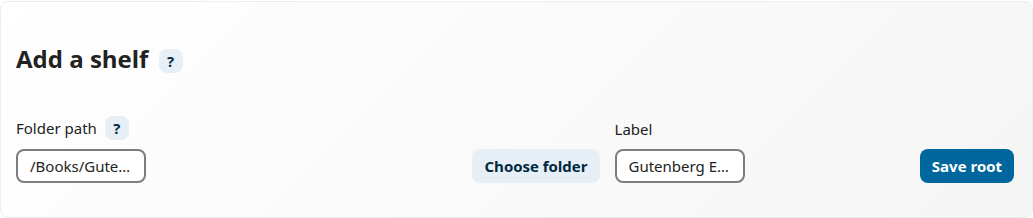
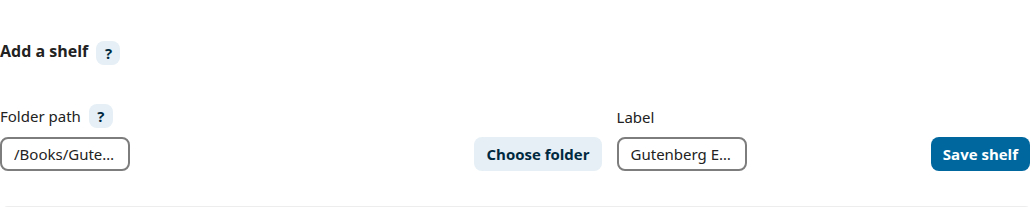
Refresh public README and screenshots for alpha.34

diff --git a/README.md b/README.md
@@ -1,59 +1,67 @@
 # Library
 
-Signed **0.3.0-alpha.34** is deployed on developer NC34. All eight final UX findings are addressed: readable errors, stable profile searches and Back navigation, consistent filter keyboards, clear mobile headers, shared view controls, terminology, language cleanup and page framing. Required CI passed, including **77 browser journeys**. Integrity is clean and the catalogue remains **107,717 books**. No database migration. See the [alpha.34 verification and deployment record](docs/compatibility-evidence/2026-10-20-nc34-final-ux-alpha34/README.md) and human acceptance **H03-26**.
+Browse, organise and improve the books, comics, magazines and papers you already keep in Nextcloud Files.
 
-Alpha.29 fixes selective content-search performance and surname searches in the **Author** filter. See the [search verification record](docs/compatibility-evidence/2026-10-20-nc34-search-alpha29/README.md). The alpha.29 search verification is historical and remains covered by alpha.30 regression checks; that search change required no migration.
+Library is an open-source Nextcloud app ([AGPL-3.0-or-later](LICENSE)) with a searchable cover gallery, author/series/genre browsing, private reading lists and tools for reviewing messy metadata. Nextcloud Files remains the canonical storage: a file-ID-based index connects your existing files to the catalogue.
 
-Library is an open-source Nextcloud app for people who keep books, comics, papers and sidecar metadata in Nextcloud Files.
+![Library catalogue with English Project Gutenberg books](docs/images/appstore-catalogue.png)
 
-Nextcloud Files remains the canonical storage. Library indexes those files with a file-ID-based index and adds a catalogue on top: covers, search, filters, shelves, saved collections, detail editing, review queues and handoff to the normal Nextcloud file viewers.
-
-![Library compact catalogue showing cover cards, filters and saved collections](docs/images/catalogue-compact.png)
-
-License: AGPL-3.0-or-later. See [LICENSE](LICENSE).
-
-Current candidate: `0.3.0-alpha.34`. Destination-author selection searches automatically after three letters and offers creation when no author matches. All book links and old bookmarks open one editor, with compact Authors → Series → Genres rows and a single Save/Discard workflow. Metadata status, imported suggestions and file information are collapsed at the bottom. The [alpha.34 final UX record](docs/compatibility-evidence/2026-10-20-nc34-final-ux-alpha34/README.md) tracks candidate checks and deployment status. Supported Nextcloud versions: **33–35**. The exact signed NC33–35 matrix and owner acceptance remain release gates. See [release status](RELEASE.md).
-
-The current development build adds per-user author and series identities, author profiles, reviewed moves and merges, changed-import review and conditional Undo. Earlier 0.2 work includes private reading lists, path/filename metadata extraction, duplicate review, scheduled scans and bounded cover thumbnails.
-
-Verification: alpha.9 has focused source-build checks on Nextcloud 33.0.9 / 34.0.4 / 35.0.0 and a populated developer NC34 upgrade. The last signed, exact-package matrix belongs to the preserved `0.2.0-beta.3` baseline; an exact 0.3 release archive still needs that matrix. See the [release checklist](docs/app-store-readiness.md), [alpha.9 evidence](docs/compatibility-evidence/2026-10-14-series-assignments-alpha9/README.md) and [active roadmap](docs/roadmap.md).
+Current candidate: `0.3.0-alpha.34`. **Pre-release:** 0.3 is the planned first App Store release. The declared compatibility range is **Nextcloud 33–35**; final exact-package compatibility checks and human acceptance remain release gates. Earlier signed candidates have their own verification records. See [release status](RELEASE.md), the [current verification record](docs/compatibility-evidence/2026-10-20-nc34-final-ux-alpha34/README.md) and the [release checklist](docs/app-store-readiness.md).
 
 ## What it does
 
-- scan folders already visible in Nextcloud Files;
-- browse a cover-first catalogue and cover gallery in compact, gallery, shelf or list view;
-- search and filter titles, creators, series, descriptions, identifiers, file names and folders;
-- filter by type, format, year, creator, publisher, subject, classification, tag, scan state, workflow state and review flags;
-- use typeahead for large lists such as creators, publishers, series, subjects and folders;
+- scan folders already visible in Nextcloud Files; browse covers or a list with shelves and saved filter collections;
+- search and filter titles, linked author names, series, descriptions, identifiers, file names and folders;
+- filter by type, format, year, author, publisher, subject, classification, tag, scan state, workflow state and review flags;
+- use typeahead for authors, publishers, series, genres, languages, subjects and other catalogue facets;
 - maintain private reading lists with ordered books and notes;
-- browse and edit author profiles and series identities; review selected-book moves, whole-identity merges and changed imported relationships;
+- browse authors, series and genres with sorting and linked book previews; edit author profiles and review reassignment, merges and imported relationship changes;
 - infer metadata from paths and filenames with preview, per-book review, Apply and Undo;
-- schedule scans and review optional potential-duplicate suggestions;
-- save the current filter setup as a collection and reopen it from the navigation;
-- open the file in the normal Nextcloud viewer, show it in Files or Download it;
-- edit catalogue metadata, workflow status, stars, descriptions and file comments;
+- schedule scans, review optional potential-duplicate suggestions and reopen saved filter collections;
+- open books in a new tab through the installed Nextcloud viewer, show them in Files or use **Download**;
+- edit book details with a single Save/Discard workflow, preserve corrected fields during scans, and manage favorites, ratings, reading status and file comments;
 - review weak metadata, scanner conflicts, missing files and metadata extraction errors;
-- export corrected metadata and preview imports before applying them.
+- export corrected metadata and preview imports before applying them;
+- delete a book file after confirmation, retaining shared OPF metadata and other companion files and removing its immediate parent only when safely empty and unprotected.
 
 The app has safe user-facing diagnostics for scan and metadata problems. Server logs keep the technical detail.
+
+## A look inside
+
+**Book details:** title, metadata, cover actions and linked authors in one editor. Changes to book metadata remain a draft until saved.
+
+![Current Book details editor for a Gutenberg publication](docs/images/appstore-details.png)
+
+**Authors:** browse names and their books, sort the directory and open a profile or book directly.
+
+![Author directory with linked Gutenberg book previews](docs/images/appstore-authors.png)
+
+**Extract metadata:** preview suggestions from file and folder names before applying selected fields.
+
+![Filename metadata extraction with a selected-record preview](docs/images/appstore-inference.png)
+
+Screenshots show the actual alpha.34 interface on an isolated Nextcloud 34 instance, using the [English Gutenberg examples](docs/gutenberg-example-books.md) and a synthetic filename-extraction example. [Capture details and reproduction](docs/images/first-library/README.md).
+
+## Your first library
+
+1. Upload a few EPUB, PDF or CBZ files to a folder in Nextcloud Files.
+2. Open **Library → Settings → Folders and scanning**, choose **Add a shelf**, select the folder and click **Save shelf**.
+3. Click **Scan this shelf** and wait for the background scan to finish.
+4. Open **All publications**. Click a cover/title for Book details or **Quick view** for the sidebar; **Open** hands the file to your installed viewer.
+
+Follow [Your first library](docs/first-library.md) for a screenshot walkthrough. EPUB/comic reading depends on the viewer apps installed on your server; downloading the source remains available.
 
 ## Current scope
 
 Library keeps source files in place. Scans and edits write to Library-owned tables and metadata records. Metadata import has a preview step before anything is applied.
 
-Outside the current 0.3 scope:
+The explicit **Delete book** action removes the selected source file through Nextcloud; normal scanning and metadata editing do not rewrite it. Corrected-metadata export is a **partial export**, not a backup of lists, author profiles or all relationships. Use the [backup and recovery guide](docs/recovery.md) to preserve the complete Library state.
 
-- a built-in EPUB, PDF or comic reader;
-- reading-position sync or annotations;
-- OCR or full-text document search;
-- internet metadata lookup;
-- OPDS, Kobo or Kindle sync;
-- AI classification;
-- shared or admin-managed library roots.
+Outside 0.3: a built-in reader, reading-position sync or annotations, OCR/full-text document search, internet metadata lookup, OPDS/device sync, AI classification and shared/admin-managed roots.
 
 ## Install
 
-Install a packaged archive as a Nextcloud administrator:
+As a Nextcloud administrator:
 
 ```bash
 tar -xzf library-<version>.tar.gz -C /var/www/html/custom_apps
@@ -61,9 +69,7 @@ chown -R www-data:www-data /var/www/html/custom_apps/library
 sudo -u www-data php /var/www/html/occ app:enable library
 ```
 
-The archive must contain one top-level `library/` directory. Paths and the web-server user vary by installation. Container setups can run the same commands through `docker exec`.
-
-After enabling the app, open **Library settings**, add a folder that already exists in Nextcloud Files, then run **Scan this root**.
+The archive must contain one top-level `library/` directory. Adjust paths and the web-server user for your installation; containers can use `docker exec`. Nextcloud background jobs must run for queued scans; Cron is recommended for scheduled scans.
 
 ## Try it
 
@@ -76,16 +82,13 @@ scripts/package-release.sh
 
 Install `dist/library-<version>.tar.gz` with the archive commands above. Verify a packaged candidate with its adjacent `.sha256` artifact; detailed release evidence stays in the excluded `RELEASE.md`.
 
-Useful checks:
+Checks: `npm run check` and `npm run smoke:release-package`. For GUI workflows, install the pinned browsers with `npx playwright install chromium firefox`, then run `npm run test:gui` against a configured disposable instance. [Browser setup and coverage](docs/playwright-journeys.md).
 
-```bash
-npm run check
-npm run smoke:release-package
-```
+`bin/nextcloud-background-worker.sh` runs the general Nextcloud background worker for a bounded development pass.
 
-`bin/nextcloud-background-worker.sh` runs the general Nextcloud background worker for a bounded development pass when scan jobs need queue processing.
+## What's next
 
-For GUI workflows, install the pinned browsers once with `npx playwright install chromium firefox`, then run `npm run test:gui`. Set `PW_BASE_URL`, `PW_USER`, `PW_PASSWORD` and fixture variables when using a disposable instance.
+The [Active roadmap](docs/roadmap.md) keeps 0.3 focused on release readiness. Planned later themes are **0.4 Enrich and discover**, **0.5 Read and remember**, and **0.6 Explore your knowledge**, including optional metadata providers, deeper Nextcloud/reader integration and grounded content discovery. These are future plans, not features of this candidate.
 
 ## More documentation
 

diff --git a/docs/images/first-library/README.md b/docs/images/first-library/README.md
@@ -1,28 +1,53 @@
-# First library screenshots
+# Public screenshots — alpha.34
 
-Captured on 2026-10-05 using the signed Library 0.2.0-beta.1 archive on an isolated Nextcloud 34.0.4 instance, Chromium, English UI, light theme and a 1440 × 1000 viewport. Settings screenshots crop the relevant section; catalogue and details screenshots show the viewport. No DOM styling or image retouching was applied.
+Captured on 2026-10-20 using the existing signed Library **0.3.0-alpha.34** archive on an isolated **Nextcloud 34.0.4** instance, Chromium, English UI, light theme and a **1440 × 1000** viewport. Settings images crop the relevant section; browsing images show the viewport. No image retouching was applied. The extraction capture uses a scroll offset to keep the preview below the Nextcloud header.
 
-The source is the existing 40-book English Gutenberg EPUB fixture, copied into `/Books/Gutenberg English` for the disposable account. Book IDs and metadata titles are listed in [Gutenberg example books](../../gutenberg-example-books.md). The recorded first scan added all 40 books with zero metadata errors. The daily schedule is demonstration data in this disposable instance.
+The source is the 40-book English Gutenberg EPUB fixture, copied into `/Books/Gutenberg English` for a disposable account. Book IDs and metadata titles are listed in [Gutenberg example books](../../gutenberg-example-books.md). The first scan added all 40 books with zero metadata errors. The daily schedule is demonstration data. The extraction screenshot additionally uses a synthetic EPUB named `Pride and Prejudice - Jane Austen (1813).epub`; it is a filename tutorial, not a complete copy of that book. The final disposable catalogue therefore contains 41 records.
+
+## Image inventory
+
+| Image | Screen |
+|---|---|
+| [01-add-folder.png](01-add-folder.png) | Add a shelf with its folder and label filled |
+| [02-saved-folder.png](02-saved-folder.png) | Saved shelf before its first scan |
+| [03-scan-complete.png](03-scan-complete.png) | Completed scan: 40 indexed, zero errors |
+| [04-browse.png](04-browse.png) | All publications in Covers view |
+| [05-book-details.png](05-book-details.png) | Quick view sidebar |
+| [06-automatic-scans.png](06-automatic-scans.png) | Daily scan schedule |
+| [appstore-catalogue.png](../appstore-catalogue.png) | Catalogue overview |
+| [appstore-details.png](../appstore-details.png) | Full Book details editor |
+| [appstore-authors.png](../appstore-authors.png) | Author directory and linked book previews |
+| [appstore-inference.png](../appstore-inference.png) | Filename extraction and selected-record preview |
+
+All ten images were visually reviewed. Missing-cover placeholders reflect the fixture. The settings captures also expose narrow Add a shelf fields and an overlapping long Changes found label; these are recorded in the [maintenance audit](../../testing-maintenance-audit-2026-10-20.md#readme-and-screenshot-follow-up) for human follow-up.
 
 ## Recreate the screenshots
 
-From the repository root, provide the existing signed archive and the Gutenberg fixture. Start without `LIBRARY_BOOK_FIXTURE_ARCHIVE`: the normal helper would otherwise pre-index books, skipping the first-use journey.
+From the repository root, provide the signed archive and a local copy of the Gutenberg fixture. Start without `LIBRARY_BOOK_FIXTURE_ARCHIVE`: the helper would otherwise pre-index books, skipping the first-use journey. The example fixture path below is local and is not a bundled download.
 
 ```bash
 export NC_VERSION=34.0.4
-export LIBRARY_LISTS_PREFIX=library-first-steps
-export LIBRARY_LISTS_WORK_DIR=/tmp/library-first-steps
-export LIBRARY_TEST_ARCHIVE="$PWD/dist/library-0.2.0-beta.1.tar.gz"
+export LIBRARY_LISTS_PREFIX=library-public-capture
+export LIBRARY_LISTS_WORK_DIR=/tmp/library-public-capture
+export LIBRARY_TEST_ARCHIVE="$PWD/dist/library-0.3.0-alpha.34.tar.gz"
+GUTENBERG_ARCHIVE=/tmp/library-beta2/gutenberg-en-40.tar.gz
 unset LIBRARY_BOOK_FIXTURE_ARCHIVE LIBRARY_BETA_ARCHIVE
 bash scripts/dev-lists-instance.sh start
 source "$LIBRARY_LISTS_WORK_DIR/$NC_VERSION.env"
-docker cp /tmp/library-beta-matrix/gutenberg-en-40.tar.gz "$LIBRARY_LISTS_CONTAINER:/tmp/books.tar.gz"
+docker cp "$GUTENBERG_ARCHIVE" "$LIBRARY_LISTS_CONTAINER:/tmp/books.tar.gz"
 docker exec "$LIBRARY_LISTS_CONTAINER" sh -c 'mkdir -p "/var/www/html/data/library-smoke/files/Books/Gutenberg English" && tar -xzf /tmp/books.tar.gz -C "/var/www/html/data/library-smoke/files/Books/Gutenberg English" && chown -R www-data:www-data /var/www/html/data/library-smoke/files/Books'
 docker exec -u www-data "$LIBRARY_LISTS_CONTAINER" php occ files:scan --path=library-smoke/files/Books
 node scripts/capture-first-library.mjs
+
+# Complete the newly indexed fixture's author and series links before capture.
+for job_class in AuthorBackfillJob SeriesBackfillJob; do
+    job_id="$(docker exec -u www-data "$LIBRARY_LISTS_CONTAINER" php occ background-job:list --output=json | python3 -c 'import json,sys; jobs=[j for j in json.load(sys.stdin) if j["class"].endswith(sys.argv[1])]; assert len(jobs)==1, jobs; print(jobs[0]["id"])' "$job_class")"
+    docker exec -u www-data "$LIBRARY_LISTS_CONTAINER" php occ background-job:execute "$job_id" --force-execute
+done
+SCREENSHOT_DIR=docs/images node scripts/capture-app-store.mjs
 bash scripts/dev-lists-instance.sh stop
 ```
 
-The capture script requires the disposable-instance ownership label and no existing Library roots. It saves the first root through the UI, queues its scan, invokes the disposable worker, captures the completed result, saves a daily schedule and captures the catalogue/sidebar. It does not download the books or run the compatibility test suite. If capture fails, stop the disposable instance after inspecting the error; use a fresh instance for another first-scan capture.
+Both scripts require the disposable-instance ownership label. The first script requires no existing Library roots, saves the shelf through the UI, queues its scan, invokes the worker, captures the completed result and saves a daily schedule. The second starts with the 40-book catalogue and creates its synthetic extraction fixture after capturing browsing screens. Use a fresh instance when repeating the complete sequence; these are first-use capture tools, not idempotent maintenance commands. If capture fails, stop the disposable instance after inspecting the error.
 
-All six images were visually reviewed. The isolated instance was removed after capture. Existing release archives and developer-instance data were not changed.
[1 lines of base64/hex data omitted]

diff --git a/docs/testing-maintenance-audit-2026-10-20.md b/docs/testing-maintenance-audit-2026-10-20.md
@@ -8,7 +8,7 @@ Scope: the alpha.34 human handbook, its directly linked navigation guidance, all
 - Moved the old A16x/LIB-HARDEN walkthroughs into the [v0.1 archive](human-test-handbook-v0.1-archive.md); retained historical evidence rather than presenting it as current acceptance work.
 - Corrected cover/title → Book details, Quick view → sidebar, author selection instead of creator-text editing, Choose series, single Save/Discard, current imported-change actions, and the Author fragment-search versus Enter-selection distinction.
 - Removed the impossible instruction to open the retired editor by disabling JavaScript. Native POST compatibility is tested through explicit requests separately.
-- Updated the directly related user-guide and first-library labels. Existing first-library images are explicitly marked as older illustrations; this audit did not recapture public Gutenberg screenshots.
+- Updated the directly related user-guide and first-library labels. The initial audit marked first-library images as older illustrations; the requested screenshot follow-up below replaces them with alpha.34 captures.
 - Changed documentation contracts so they protect the current version, case inventory and workflow instead of requiring obsolete interface phrases in the current handbook.
 
 ## Browser test corrections
@@ -24,7 +24,7 @@ Scope: the alpha.34 human handbook, its directly linked navigation guidance, all
 | OPF series smoke tested raw source-field editing | Test canonical series/part editing with Save book details, rescan survival and unchanged imported series evidence/source file markers. |
 | Native-conflict smoke scraped a removed form | Build the legacy-client payload explicitly from the current revision/CSRF context; retain stale-409 and reviewed-resubmit checks. Remove temporary authentication afterward. |
 | Deletion's no-save counter watched obsolete URLs | Watch the actual `/items/{id}` POST as well as legacy update routes, excluding the deletion endpoint. |
-| Screenshot tools clicked a cover expecting a sidebar | Use Quick view; update Save shelf/Scan this shelf labels. Syntax checked; public capture not rerun. |
+| Screenshot tools clicked a cover expecting a sidebar | Use Quick view; update Save shelf/Scan this shelf labels. The initial pass was syntax-only; both public capture scripts subsequently passed in the screenshot follow-up below. |
 
 ## Remaining historical diagnostics
 
@@ -32,7 +32,7 @@ Four utilities still require migration before they can be used against the curre
 
 The [coverage page](playwright-journeys.md#older-standalone-diagnostics) identifies current replacements and gaps. In particular, the old combined inference/author scenario, omitted-field legacy API checks and rejected-field reset browser scenario are not newly certified by this run. Retiring an unusable replay does not establish replacement coverage.
 
-The signed NC33–35 fresh/upgrade matrix, additional standalone inference diagnostics, public screenshot refresh and manual screen-reader acceptance remain separate work. The main suite's pass count must not be presented as completion of those gates.
+The signed NC33–35 fresh/upgrade matrix, additional standalone inference diagnostics and manual screen-reader acceptance remain separate work. The main suite's pass count must not be presented as completion of those gates.
 
 ## Verification
 
@@ -70,3 +70,11 @@ The source-tree aggregate remained `9303a6f07320fa15823b5790eefdeb8e720fcc420242
 ### Merge follow-up
 
 PR #129's first hosted run stopped at the dependency audit before executing tests: `follow-redirects` 1.16.0 was flagged by GHSA-q3jh-wrc6-jgq8 and GHSA-8r9p-f939-6h3c. The lockfile was updated only for that transitive package to patched 1.16.1; the production audit then reported zero vulnerabilities. Hosted checks must pass on the updated commit before merging. The Node dependency tree is not shipped in the Nextcloud app archive; the installed alpha.34 package remains unchanged.
+
+### README and screenshot follow-up
+
+Refreshed the public README, first-library walkthrough and App Store listing draft against the existing signed alpha.34 package. Captured six first-library images and four showcase images (catalogue, full Book details, Authors and extraction preview) on a labelled disposable Nextcloud 34.0.4 instance using the 40 English Gutenberg EPUBs plus one synthetic extraction example. Both capture scripts completed successfully. The automatic-scans capture now opens its disclosure; full details uses the cover link; author previews wait only for visible lazy-loaded images. An initial author-image wait incorrectly required below-fold images to load and timed out; correcting that wait allowed the full capture to complete.
+
+All ten images were visually inspected. The settings screenshots retain two observed presentation issues for human follow-up: the Add a shelf inputs truncate their example values despite spare row space, and the Changes found tile's long moved/renamed label overlaps its count at this width. The captures are not retouched to conceal either issue. Catalogue placeholders are intentional where the fixture has no cover. This is screenshot verification, not a new compatibility certification.
+
+Capture commands and provenance are in [the image record](images/first-library/README.md). Local logs: `/tmp/library-public-capture-first.log` and `/tmp/library-public-capture-store.log`. The developer instance and existing books were not modified. The App Store's historical screenshot URLs still need the final published release tag before submission.

diff --git a/docs/app-store-listing.md b/docs/app-store-listing.md
@@ -1,8 +1,8 @@
 # App Store listing draft
 
-Status: preserved 0.2 beta listing draft; refresh screenshots and copy against the signed 0.3 candidate before submission.
+Status: copy and screenshots refreshed against signed 0.3.0-alpha.34 on 2026-10-20; final candidate review remains required before submission.
 Target app version: 0.3, subject to exact archive verification.
-Compatibility target: Nextcloud 33–35. Focused alpha.9 source checks are available; the signed 0.3 package matrix remains pending.
+Compatibility target: Nextcloud 33–35. Current NC34 verification is recorded for alpha.34; the final exact-package NC33–35 matrix remains a release gate.
 
 ## Short description
 
@@ -12,7 +12,7 @@ Publication catalogue for EPUB, PDF and CBZ files stored in Nextcloud Files.
 
 Library is a Nextcloud app for people who keep books, comics, magazines, papers or other digital publications in ordinary Nextcloud folders and want a catalogue view on top of those files.
 
-It indexes selected folders, keeps the original files in Nextcloud Files, extracts and stores useful publication metadata, and presents the collection as a searchable cover-first catalogue. Users can browse by title, creator, publication or year, edit catalogue metadata, review weak or conflicting scanner results, save custom views, and hand files off to the existing Nextcloud viewer or download action.
+It indexes selected folders, keeps the original files in Nextcloud Files, extracts and stores useful publication metadata, and presents the collection as a searchable cover-first catalogue. Users can browse by title, author, series, genre, publication or year, edit catalogue metadata, review weak or conflicting scanner results, save custom views, and hand files off to the existing Nextcloud viewer or download action.
 
 Library does not replace Nextcloud Files. It adds publication-oriented browsing and cleanup workflows while preserving file ownership and storage in Nextcloud.
 
@@ -22,7 +22,7 @@ Included in the 0.3 development build:
 
 - user-configured library roots;
 - private reading lists with ordering and notes;
-- account-private author and series identities, author profiles, reviewed book moves and merges, changed-import review and conditional Undo;
+- account-private author, series and genre identities, author profiles, reviewed book moves and merges, changed-import review and conditional Undo;
 - filename/path metadata suggestions, saved rules, preview, per-book approval and Apply/Undo;
 - optional duplicate suggestions and explicit review decisions;
 - scheduled incremental scans with periodic full reconciliation;
@@ -32,7 +32,8 @@ Included in the 0.3 development build:
 - one-save book editing for publication fields, linked authors, series, genres, rating, dates, subjects, classifications and descriptions; separate workflow status, favorites and comments;
 - review flows for weak metadata, scanner conflicts, missing files and metadata extraction errors;
 - corrected-metadata export and import preview/apply;
-- safe handoff to existing Nextcloud viewers, Show in Files and Download source actions.
+- safe handoff to existing Nextcloud viewers, Show in Files and Download source actions;
+- confirmed book deletion through Nextcloud, with shared OPF retention and protected-root checks.
 
 Outside the planned 0.3 scope:
 
@@ -62,15 +63,18 @@ Bug reports are most useful when they include the app version, Nextcloud version
 
 Prepared screenshots for owner review:
 
-Captured on disposable Nextcloud 34.0.4 using the public Gutenberg fixture and a synthetic metadata tutorial file. All are below 2 MiB, and contain no real-library filenames or credentials:
+Captured from signed Library 0.3.0-alpha.34 on disposable Nextcloud 34.0.4 using the public Gutenberg fixture and a synthetic metadata tutorial file. All are below 2 MiB, and contain no real-library filenames or credentials:
 
 1. [Catalogue](images/appstore-catalogue.png)
 2. [Publication details](images/appstore-details.png)
-3. [Metadata extraction and live preview](images/appstore-inference.png)
+3. [Authors and linked book previews](images/appstore-authors.png)
+4. [Metadata extraction and live preview](images/appstore-inference.png)
+
+[Capture provenance and reproduction](images/first-library/README.md).
 
 Before uploading, verify that no real filenames, private folder names, user names, server names or credentials are visible.
 
-The three release-tag URLs are included in `appinfo/info.xml`; they become public when the accepted source tag is pushed. Review the visible wording and presentation before publication.
+The three screenshot URLs in `appinfo/info.xml` still target the historical `v0.2.0-beta.3` tag. Before submission, update them to the accepted published 0.3 source tag and include the author screenshot. The refreshed repository images alone do not update those pinned App Store URLs. Review the visible wording and presentation against that final tag.
 
 ## Release note draft
 

diff --git a/docs/compatibility-evidence/2026-09-30-beta1/README.md b/docs/compatibility-evidence/2026-09-30-beta1/README.md
@@ -47,9 +47,9 @@ A sleeping worker that had retained old PHP for more than two days was recycled 
 
 Public screenshots use the disposable Gutenberg account. The extraction screenshot uses a synthetic tutorial EPUB with a meaningful filename; it is not a complete copy of the named book. Screenshots are captured after the cover loading/sidebar transitions settle.
 
-- [Catalogue](../../images/appstore-catalogue.png)
-- [Book details](../../images/appstore-details.png)
-- [Metadata extraction](../../images/appstore-inference.png)
+- [Catalogue](https://raw.githubusercontent.com/utrost/Library/932c185b0492795f1363ff0655e38cbb5208d129/docs/images/appstore-catalogue.png)
+- [Book details](https://raw.githubusercontent.com/utrost/Library/932c185b0492795f1363ff0655e38cbb5208d129/docs/images/appstore-details.png)
+- [Metadata extraction](https://raw.githubusercontent.com/utrost/Library/932c185b0492795f1363ff0655e38cbb5208d129/docs/images/appstore-inference.png)
 
 Manual assistive-technology testing remains outstanding; browser accessibility assertions are not screen-reader testing. PostgreSQL was not part of this release matrix. The NC35 image reports two core index warnings (`oc_job_classes_registry` and `oc_federated_invites`), outside Library's schema. They do not invalidate Library integrity or the recorded application checks.
 

diff --git a/docs/first-library.md b/docs/first-library.md
@@ -1,6 +1,6 @@
 # Your first library
 
-Turn a folder of English Project Gutenberg books into a catalogue you can search, browse and open. The instructions use the current **0.3** controls. The screenshots are older **0.2** illustrations from Nextcloud **34**, using 40 EPUB files; follow the labels in the text when they differ. You can follow the steps with just a few books.
+Turn a folder of English Project Gutenberg books into a catalogue you can search, browse and open. The instructions and screenshots use **0.3.0-alpha.34** on Nextcloud **34.0.4**, with 40 EPUB files. You can follow the steps with just a few books.
 
 ## Before you start
 
